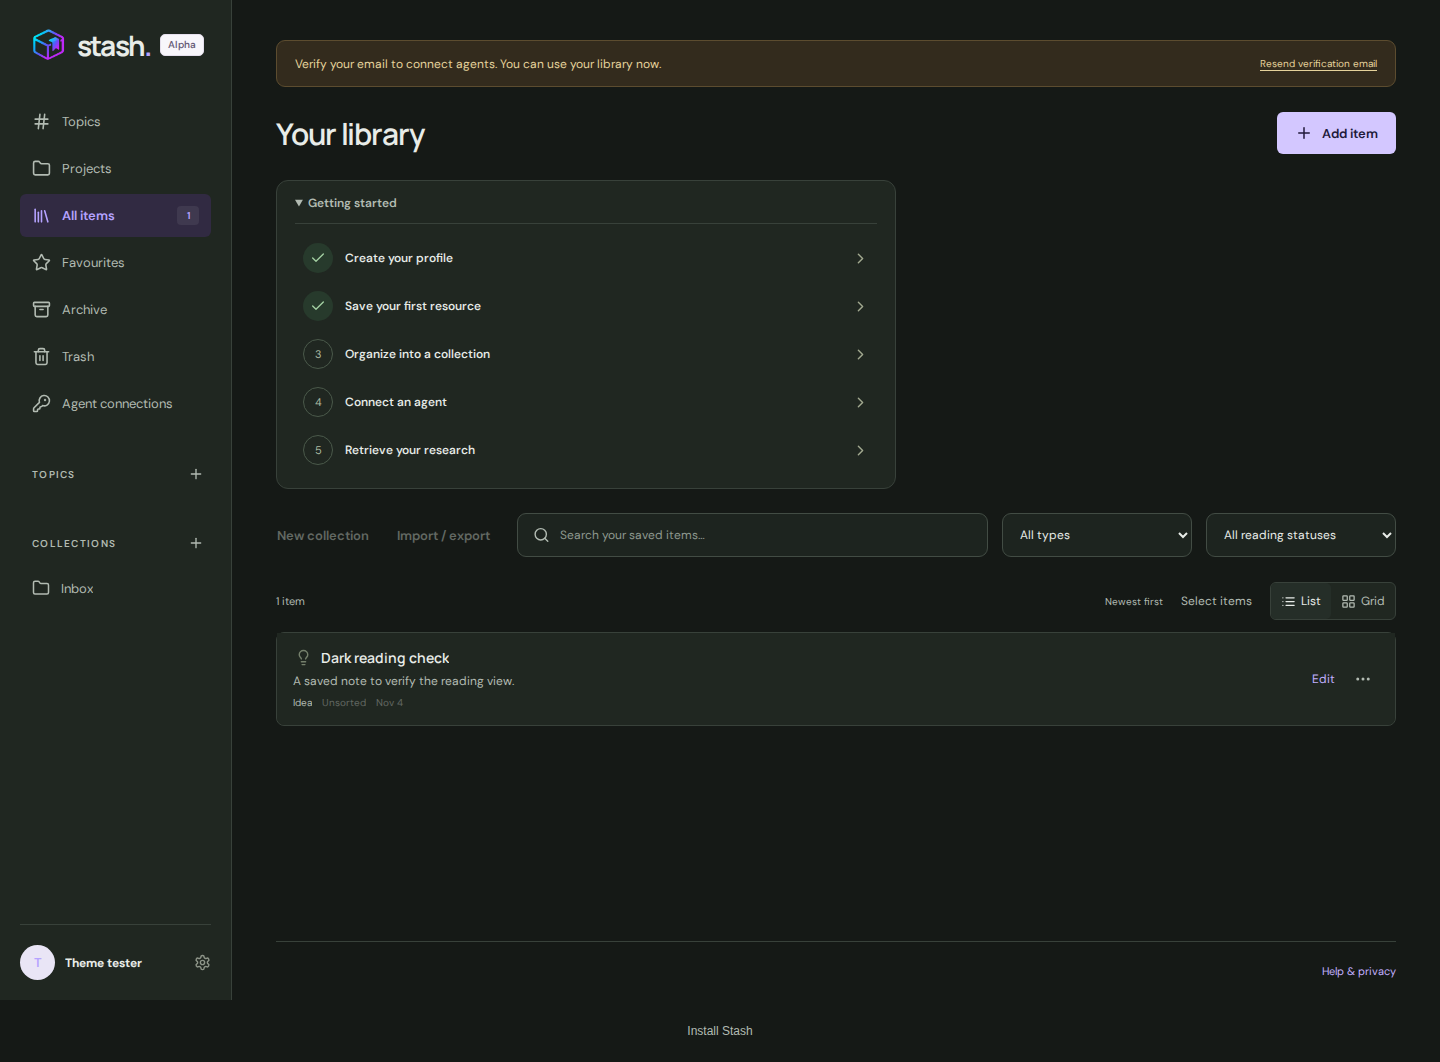
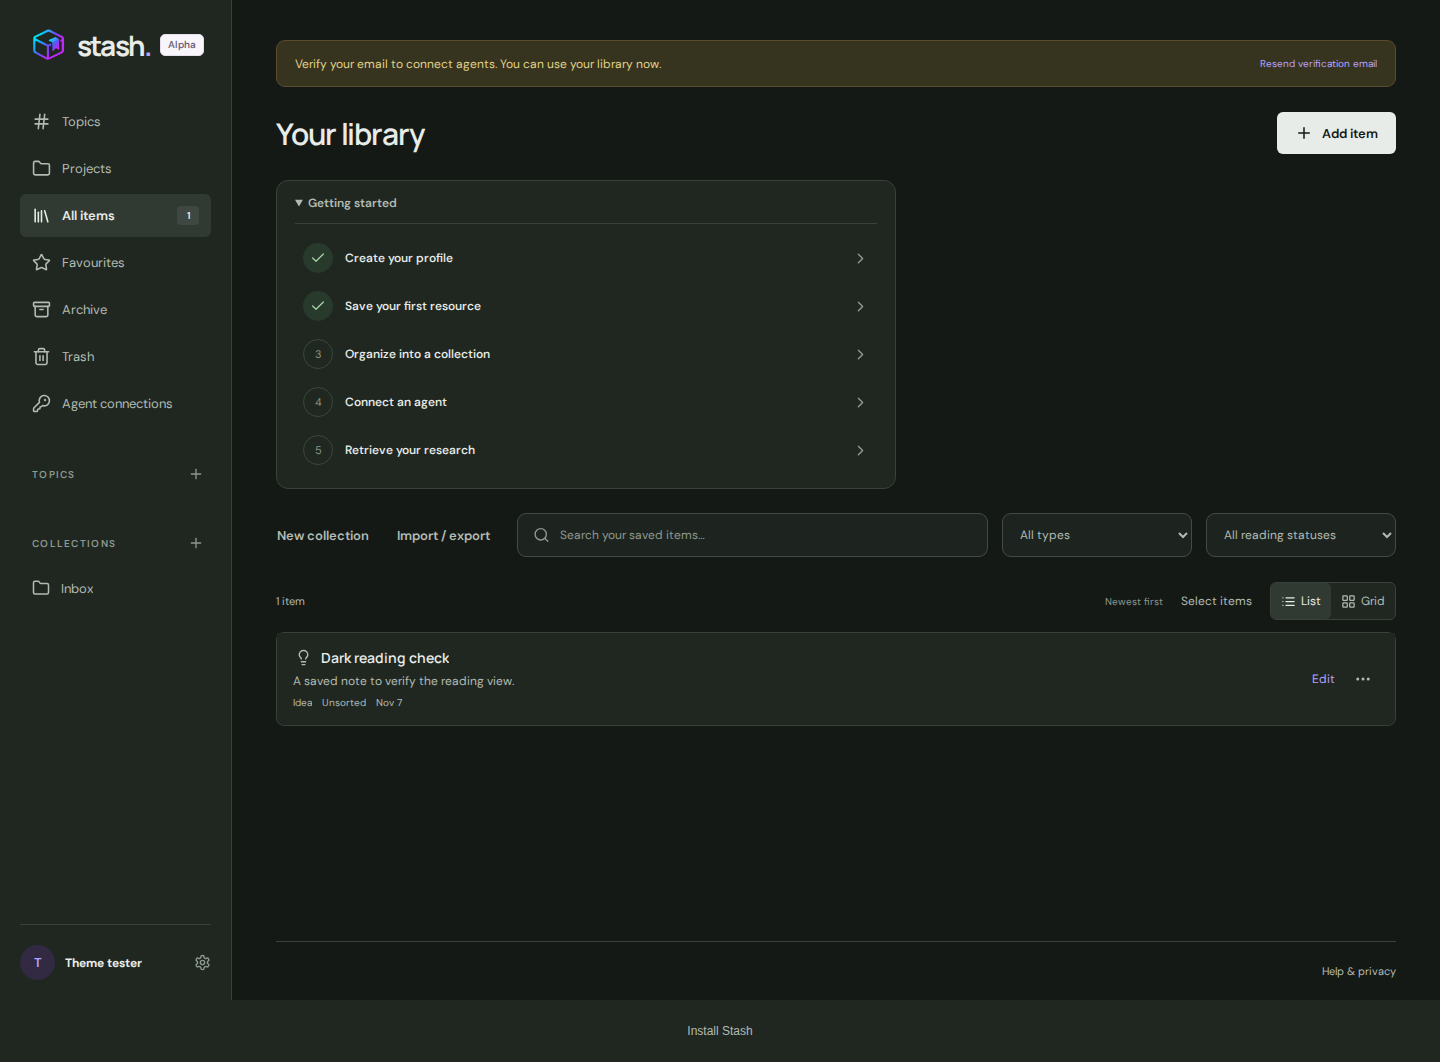
docs: record theme styles and accent verification

diff --git a/docs/verification.md b/docs/verification.md
@@ -628,3 +628,20 @@ Source `1e4dd9a` was pushed to `main`, which triggered the main-branch Vercel bu
 Live checks returned 200 for the landing page, `/signin`, `/help`, the admin origin, `/health` and `/ready`. The deployed sign-in page renders `data-theme="light"` with `data-theme-preference="system"`, and the served production stylesheet contains the `html[data-theme="dark"]` rules, including `--paper:#151916` and the dark field and search surfaces. A first visit defaults to System and the page is light unless the device or the saved preference is dark, so dark mode was confirmed from the deployed stylesheet rather than by changing a browser preference on the live account.
 
 No accounts, data, credentials, provider settings or hosting plans were changed. Evidence is `docs/evidence/appearance/deployment.json`. Dark-mode screenshots remain the earlier local captures; hosted dark rendering was not re-captured.
+
+## Appearance styles and accents, 7 November 2026
+
+Profile now offers Theme, Style and Accent colour. Light styles are Paper (default), Cool and Warm; dark styles are Forest (default), Midnight, Graphite and Warm; accents are Violet (default), Indigo, Teal, Clay, Plum and Slate. Accent drives links, focus rings, active navigation, selection, tags and citations, while primary actions keep the neutral ink treatment. Defaults reproduce the previous appearance. Theme, per-mode style and accent persist under separate browser-local keys and apply before hydration.
+
+The app-shell and signed-in component colours were moved from literal hex values onto semantic tokens (`--paper`, `--surface`, `--ink`, `--line`, `--field`, `--accent`, semantic state tokens and style-specific sage/story tints). `apps/web/app/appearance.css` now holds only token blocks for the styles and accents plus the Appearance panel styles; the marketing/demo illustration colours in `globals.css` remain intentionally light. Light faint text was darkened to clear 4.5:1 contrast during the new matrix (Paper `#6b7263`, Cool `#697079`, Warm `#756d60`).
+
+Passed checks:
+
+- `TEST_DATABASE_URL=postgresql://stash:theme-preview-only@127.0.0.1:55441/stash_test pnpm test:browser tests/browser/appearance.spec.ts`: 2 cases passed. The first keeps the existing Light/Dark/System, cross-tab, OS-change, reading, account, axe and overflow coverage. The second checks defaults, every light and dark style (`data-theme-style` plus the rendered page colour), every light and dark accent (brand-dot colour), reload persistence, cross-tab accent changes, invalid stored values falling back to Violet, 375px overflow, and axe on profile and a saved reading page.
+- `pnpm test:browser tests/browser/library-layout.spec.ts tests/browser/projects.spec.ts tests/browser/accessibility.spec.ts`: 6 cases passed, covering compact library, list/grid, menus, Projects and the existing signup/library/save-dialog/profile axe journey.
+- `pnpm test:browser tests/browser/topics.spec.ts tests/browser/routing.spec.ts`: 4 cases passed for Topics capture/management and durable routes.
+- `pnpm typecheck` passed for every workspace package. `NEXT_DIST_DIR=.next-build-verification pnpm build` produced the production API, consumer and admin builds.
+
+Screenshots for every style, the light Teal accent, the dark Clay accent and the dark accent row are in `docs/evidence/appearance/`; the browser log is `styles-browser.txt`. The browser suite used the existing local PostgreSQL 16 preview container's disposable `stash_test` database and its own temporary schema. It created disposable accounts only; no live data, credentials or provider settings were touched.
+
+This change was not deployed at this checkpoint. The landing page remains light by design, and accent choices deliberately do not recolour primary ink buttons.

diff --git a/docs/features/appearance.md b/docs/features/appearance.md
@@ -1,7 +1,15 @@
 # Appearance
 
-The Profile page includes Light, Dark and System choices. The choice is saved in this browser and applied before the page hydrates. System follows the device's current color preference, including changes made while Stash is open. A saved choice updates other Stash tabs in the same browser.
+Profile → Appearance offers three independent choices, all saved in this browser:
 
-The preference applies to the signed-in workspace, Topics and collections, Projects, saved-item reading pages, Help, and account screens such as sign-in and recovery. Account forms sit in a padded, bordered panel that stays distinct from the page in both themes. Dark search controls use one continuous field surface, including the library and Topics search boxes. The Getting started disclosure stays a compact, bordered panel with inset step rows, and verification notices use a muted amber surface. The public landing page keeps its existing light presentation. Clearing this browser's local storage removes the saved choice and returns to System. Preferences are not synced between browsers or stored in the account.
+- **Theme:** Light, Dark or System. System follows the device and updates when the operating system changes while Stash is open.
+- **Style:** curated palettes for the active mode. Light: Paper (default), Cool, Warm. Dark: Forest (default), Midnight, Graphite, Warm.
+- **Accent colour:** Violet (default), Indigo, Teal, Clay, Plum or Slate, chosen from a labelled swatch row with a ring and check on the selected colour.
 
-Run `TEST_DATABASE_URL=<owned disposable stash_test URL> pnpm test:browser tests/browser/appearance.spec.ts` to check saved preference across reloads, live OS changes, cross-tab updates, reading and account pages, mobile overflow, and accessibility in the affected themes. Screenshots and the final check are in [appearance evidence](../evidence/appearance/). Source `1e4dd9a` is live; see [deployment.json](../evidence/appearance/deployment.json).
+Accent drives links, text buttons, focus rings, active navigation, selection surfaces, tags and citation chips. Primary buttons keep the neutral ink treatment in both modes. Success, warning and danger keep their own colours so status and action stay distinct.
+
+Defaults are System, Paper/Forest and Violet, which reproduce the previous look. A saved choice applies before the page hydrates, updates other Stash tabs in the same browser, and falls back to the defaults when a stored value is unknown. Theme, per-mode style and accent are stored under `stash-theme`, `stash-theme-light`, `stash-theme-dark` and `stash-accent`. Preferences are not synced between browsers or stored in the account.
+
+The preference applies to the signed-in workspace, Topics and collections, Projects, saved-item reading pages, Help, and account screens such as sign-in and recovery. The public landing page and other marketing surfaces keep their existing light presentation.
+
+Run `TEST_DATABASE_URL=<owned disposable stash_test URL> pnpm test:browser tests/browser/appearance.spec.ts` to check reload persistence, live OS changes, cross-tab updates, every style and accent, invalid stored values, reading and account pages, mobile overflow, and accessibility. Screenshots, the browser log and the deployment record are in [appearance evidence](../evidence/appearance/).
